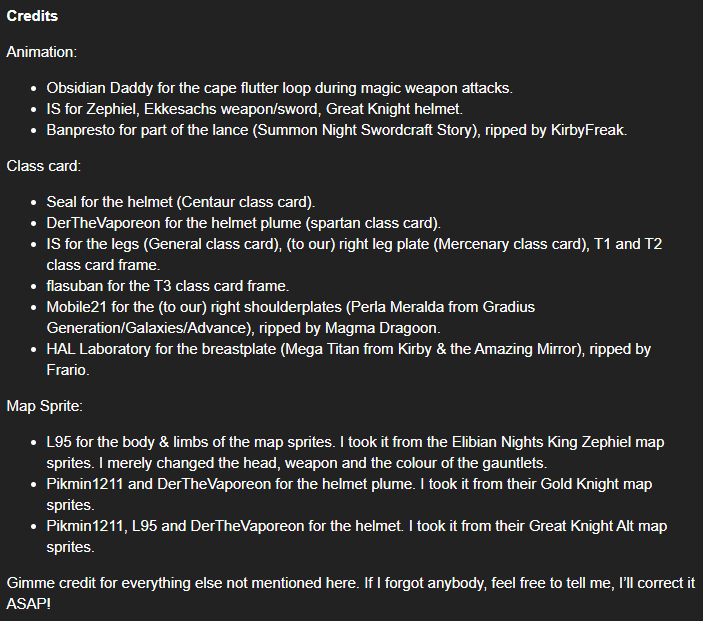
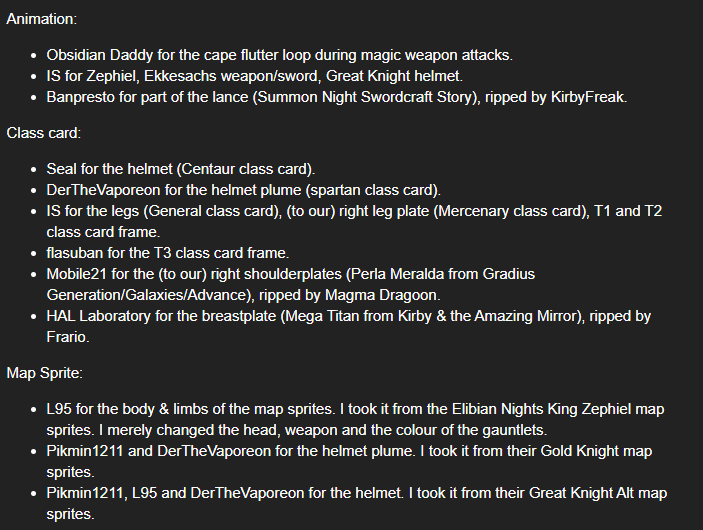
More fixes

Changed region(s): [[0.0, 0.0, 0.9559, 0.6642], [0.0, 0.6943, 0.9858, 0.9962]]

diff --git a/Battle Animations/4b. T2 Cavs and Armors (50% Done)/[Zephiel-Reskin] [M] King Zephiel Generic/4. Handaxe/README.md b/Battle Animations/4b. T2 Cavs and Armors (50% Done)/[Zephiel-Reskin] [M] King Zephiel Generic/4. Handaxe/README.md
@@ -2,12 +2,6 @@
 
 ## Credit
 
-Huichelaar, Obsidian Daddy, Banpresto, KirbyFreak
-
-Full Credits:
-
-https://i.imgur.com/2fv8huf.png
-
 <img src="./Credits.png" />
 	
 ## Handaxe

diff --git a/Battle Animations/4b. T2 Cavs and Armors (50% Done)/[Zephiel-Reskin] [M] King Zephiel Generic/8. Unarmed/README.md b/Battle Animations/4b. T2 Cavs and Armors (50% Done)/[Zephiel-Reskin] [M] King Zephiel Generic/8. Unarmed/README.md
@@ -2,12 +2,6 @@
 
 ## Credit
 
-Huichelaar, Obsidian Daddy, Banpresto, KirbyFreak
-
-Full Credits:
-
-https://i.imgur.com/2fv8huf.png
-
 <img src="./Credits.png" />
 	
 ## Unarmed

diff --git a/Battle Animations/4b. T2 Cavs and Armors (50% Done)/[Zephiel-Reskin] [M] King Zephiel Generic/README.md b/Battle Animations/4b. T2 Cavs and Armors (50% Done)/[Zephiel-Reskin] [M] King Zephiel Generic/README.md
@@ -4,12 +4,6 @@
 
 ## Credits
 
-Huichelaar, Obsidian Daddy, Banpresto, KirbyFreak
-
-Full Credits:
-
-https://i.imgur.com/2fv8huf.png
-
 <img src="./Credits.png" />
 
 ## Weapons

diff --git a/Battle Animations/4b. T2 Cavs and Armors (50% Done)/[Zephiel-Reskin] [M] King Zephiel Generic/1. Sword/README.md b/Battle Animations/4b. T2 Cavs and Armors (50% Done)/[Zephiel-Reskin] [M] King Zephiel Generic/1. Sword/README.md
@@ -2,12 +2,6 @@
 
 ## Credit
 
-Huichelaar, Obsidian Daddy, Banpresto, KirbyFreak
-
-Full Credits:
-
-https://i.imgur.com/2fv8huf.png
-
 <img src="./Credits.png" />
 	
 ## Sword

diff --git a/Battle Animations/4b. T2 Cavs and Armors (50% Done)/[Zephiel-Reskin] [M] King Zephiel Generic/2. Lance/README.md b/Battle Animations/4b. T2 Cavs and Armors (50% Done)/[Zephiel-Reskin] [M] King Zephiel Generic/2. Lance/README.md
@@ -2,12 +2,6 @@
 
 ## Credit
 
-Huichelaar, Obsidian Daddy, Banpresto, KirbyFreak
-
-Full Credits:
-
-https://i.imgur.com/2fv8huf.png
-
 <img src="./Credits.png" />
 	
 ## Lance

diff --git a/Battle Animations/4b. T2 Cavs and Armors (50% Done)/[Zephiel-Reskin] [M] King Zephiel Generic/6. Magic (With Sword)/README.md b/Battle Animations/4b. T2 Cavs and Armors (50% Done)/[Zephiel-Reskin] [M] King Zephiel Generic/6. Magic (With Sword)/README.md
@@ -2,12 +2,6 @@
 
 ## Credit
 
-Huichelaar, Obsidian Daddy, Banpresto, KirbyFreak
-
-Full Credits:
-
-https://i.imgur.com/2fv8huf.png
-
 <img src="./Credits.png" />
 	
 ## Magic

diff --git a/Battle Animations/4b. T2 Cavs and Armors (50% Done)/[Zephiel-Reskin] [M] King Zephiel Generic/3. Axe/README.md b/Battle Animations/4b. T2 Cavs and Armors (50% Done)/[Zephiel-Reskin] [M] King Zephiel Generic/3. Axe/README.md
@@ -2,12 +2,6 @@
 
 ## Credit
 
-Huichelaar, Obsidian Daddy, Banpresto, KirbyFreak
-
-Full Credits:
-
-https://i.imgur.com/2fv8huf.png
-
 <img src="./Credits.png" />
 	
 ## Axe
